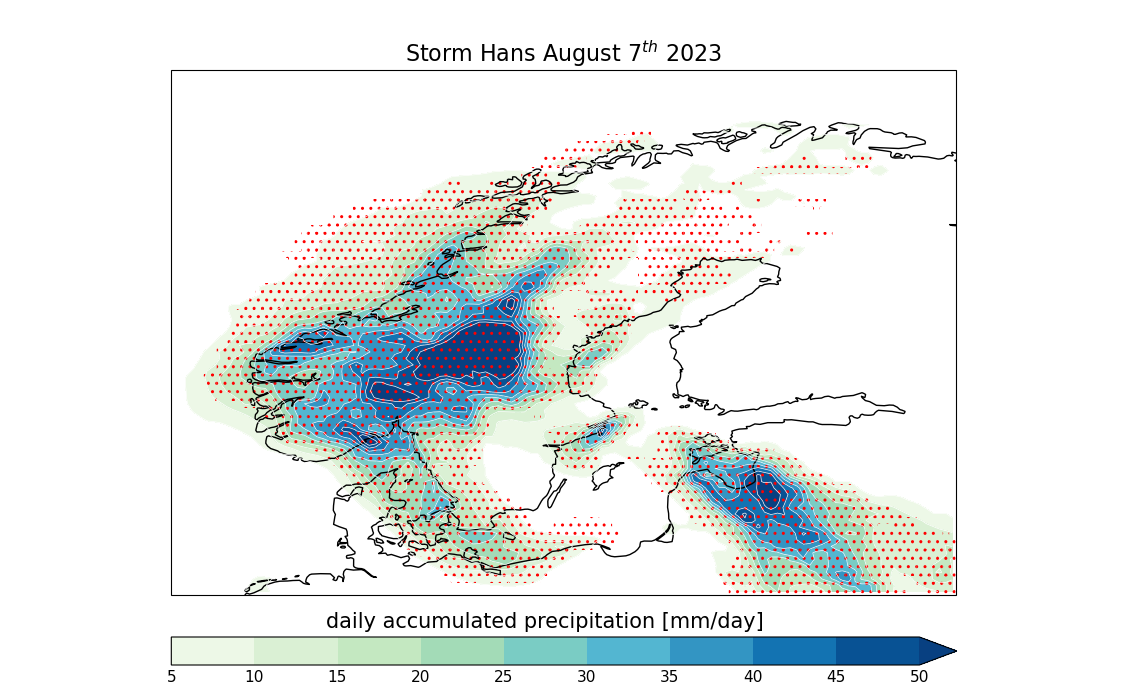
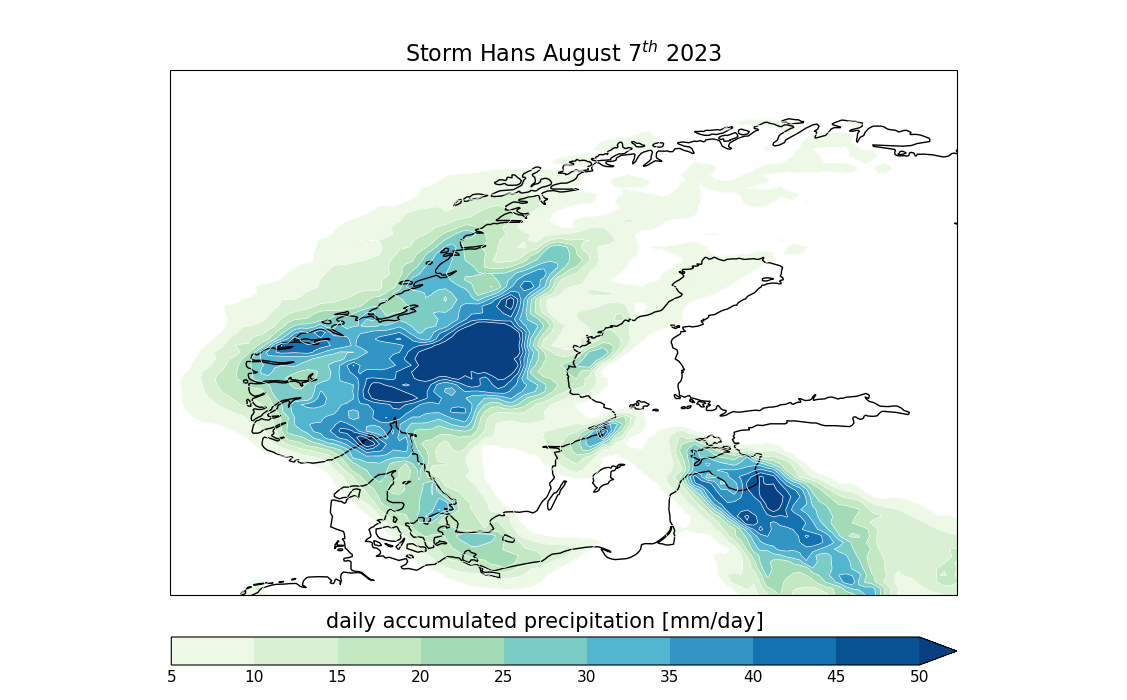
update

Changed region(s): [[0.1863, 0.15, 0.8696, 0.87], [0.7143, 0.54, 0.8075, 0.6]]

diff --git a/code/download/download-s2s-ecmwf-6hourly-hindcast.py b/code/download/download-s2s-ecmwf-6hourly-hindcast.py
@@ -26,8 +26,8 @@ from forsikring                  import config,misc,s2s
 
 # input -----------------------------------
 product             = 'hindcast' # hindcast/vr_hindcast
-first_forecast_date = '20200206' # first initialization date of forecast (either a monday or thursday)
-number_forecast     = 95          # number of forecast initializations      
+first_forecast_date = '20200416' # first initialization date of forecast (either a monday or thursday)
+number_forecast     = 75          # number of forecast initializations      
 nhdates             = 20 # number of hindcast years  
 grid                = '0.5/0.5' # degree lat/lon resolution
 area                = '73.5/-27/33/45'# ecmwf european lat-lon bounds [73.5/-27/33/45]

diff --git a/code/plot/plot-fig-05.py b/code/plot/plot-fig-05.py
@@ -21,9 +21,9 @@ def setup_subplot_xy(ax, ds1, ds2, clevs, cmap, fontsize, title):
     ax.contour(lon, lat, ds2, levels=clevs,colors = [(1.0,1.0,1.0)],linewidths=0.5,transform=ccrs.PlateCarree())
 
     #rectangle = plt.Rectangle((31.75, 72.75), 0.25, 0.25, angle=180, fc=(0.5,0.5,0.5,0),ec='r',lw=2)
-    ds1 = ds1  > 0.5
-    ds1 = ds1.where(ds1, np.nan)
-    ax.pcolor(lon, lat, ds1, hatch='..', cmap=mpl.colors.ListedColormap(['none']), edgecolor=[1.0,0.0,0.0], lw=0)
+    #ds1 = ds1  > 0.5
+    #ds1 = ds1.where(ds1, np.nan)
+    #ax.pcolor(lon, lat, ds1, hatch='..', cmap=mpl.colors.ListedColormap(['none']), edgecolor=[1.0,0.0,0.0], lw=0)
         
     ax.coastlines(color='k',linewidth=1)
     ax.set_title(title,fontsize=fontsize+5)
